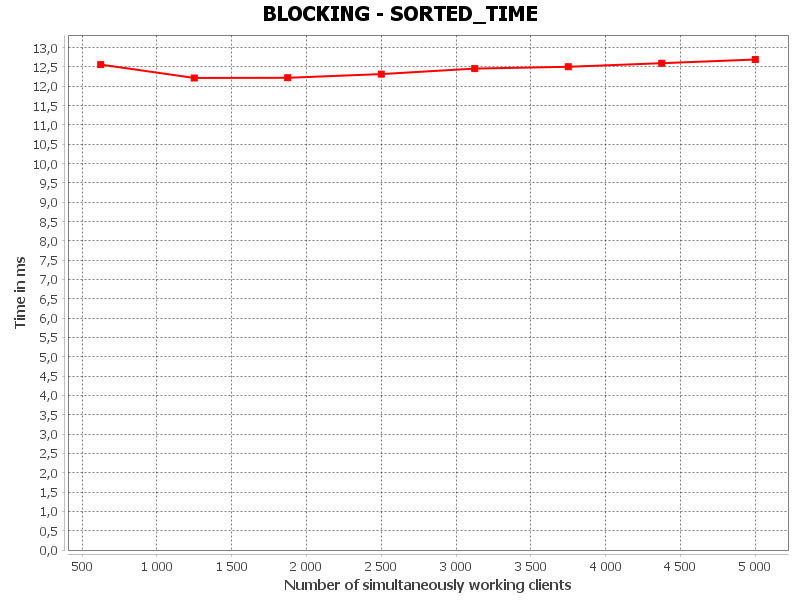
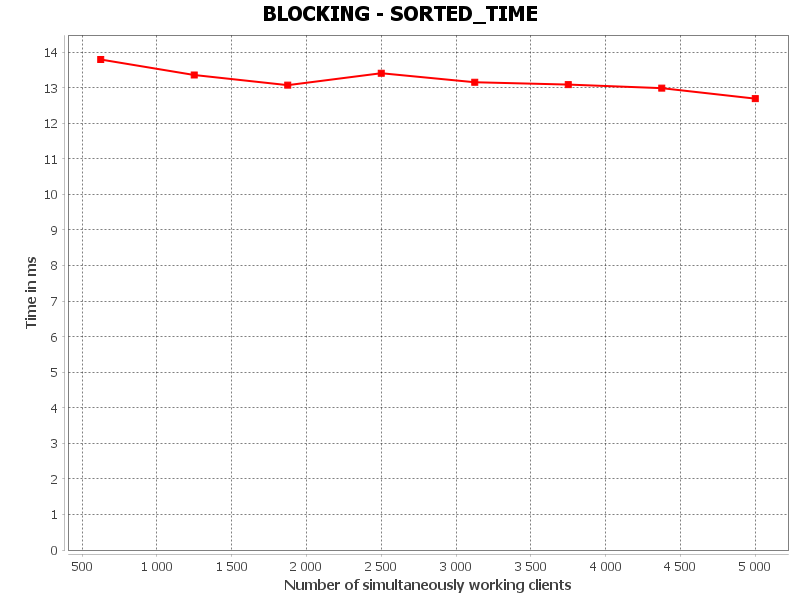
Update Readme and change take metric in blocking arhitecture

diff --git a/serverArchitectures/blocking/src/main/servers/BlockingServerArchitecture.java b/serverArchitectures/blocking/src/main/servers/BlockingServerArchitecture.java
@@ -120,9 +120,10 @@ public class BlockingServerArchitecture implements ServerArchitecture {
 
         client.writeThreadPool().execute(() -> {
             try {
+                var responseInByteArray = response.toByteArray();
                 clientWithMetric.metricContext().tryStop();
                 client.outputStream.writeInt(response.getSerializedSize());
-                response.writeTo(client.outputStream);
+                client.outputStream.write(responseInByteArray);
 
                 logger.info("SERVER: Sent Response to Client " + client.id);
                 client.countDownLatch().countDown();

diff --git a/README.md b/README.md
@@ -19,6 +19,25 @@
 
 Клиент реализован с помощью блокирующих операций без доп. потоков, тем самым, если он отослал запрос - то он не будет отсылать новые, пока не получит старый.
 
+## Как считаются метрики
+
+- `SORTED_TIME` - время обработки запроса (сортировки в данном случае) на сервере, ms.
+  - до создания нового массива для сортировки;
+  - перед переводом отсортированного массива в `Response`.
+  
+  Тем самым учитывается прям только время сортировки.
+
+
+- `HANDLE_CLIENT_TIME` - время обработки клиента на сервере, ms.
+  - учитывается после полного `read`, но до парсинга из массива байтов в `Request`;
+  - перед первым вызовом `write` в любой из архитектур;
+  
+  Тем самым учитывается только время обработки, учитывая такие особенности, как селекторы или то, что коллбеки выполняются только в одном потоке.
+
+- `CLIENT_LOOP_TIME` - среднее время одного запроса на клиенте, ms. \
+  Считается как полный цикл всех итераций на клиенте, а затем вычитается `DELTA * X` и усредняется.
+
+
 ## Анализ результатов
 
 >  Константы:
